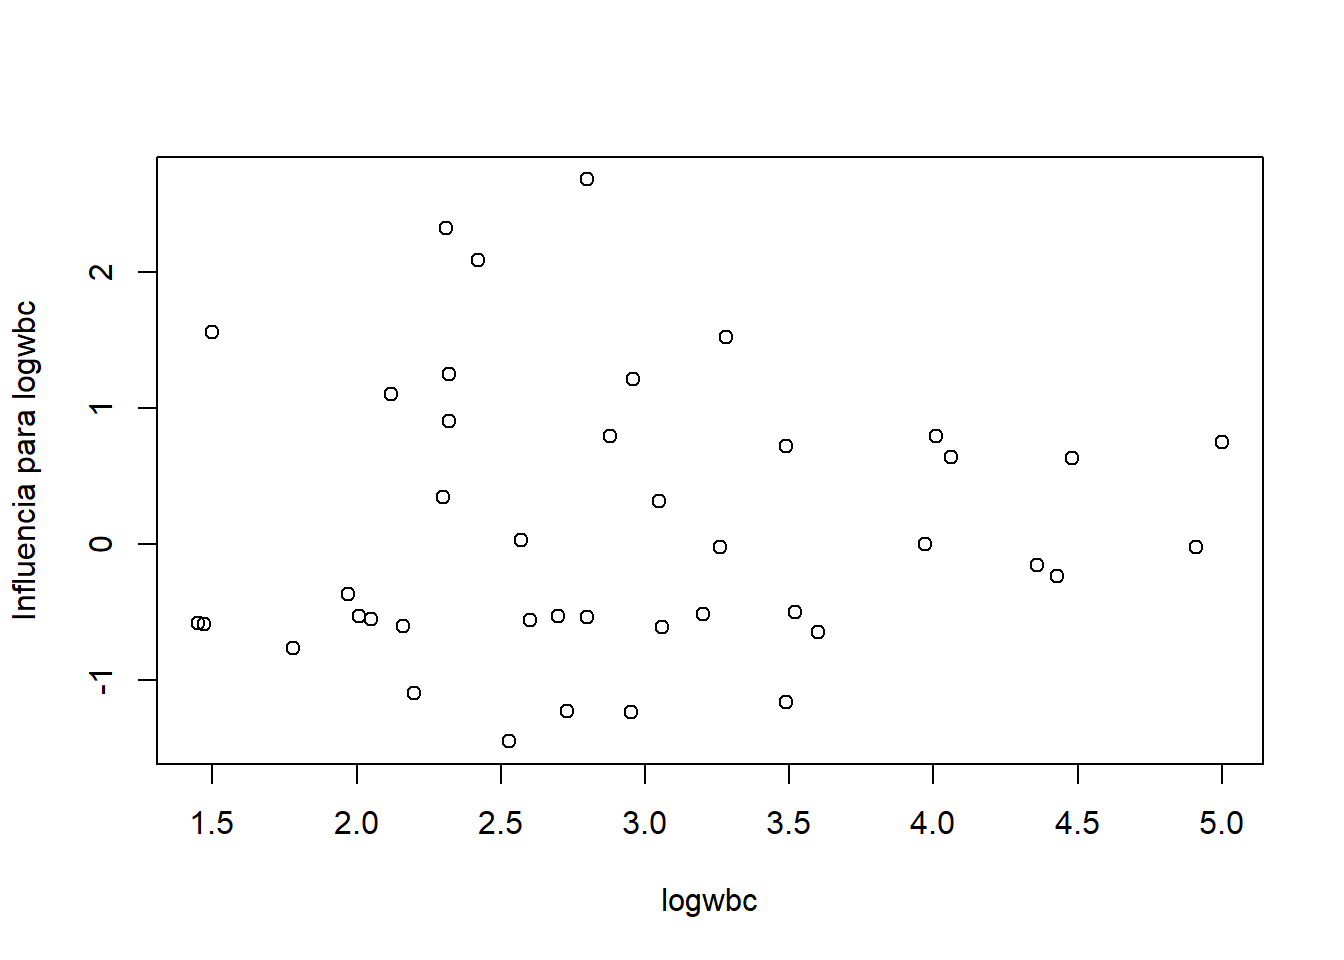
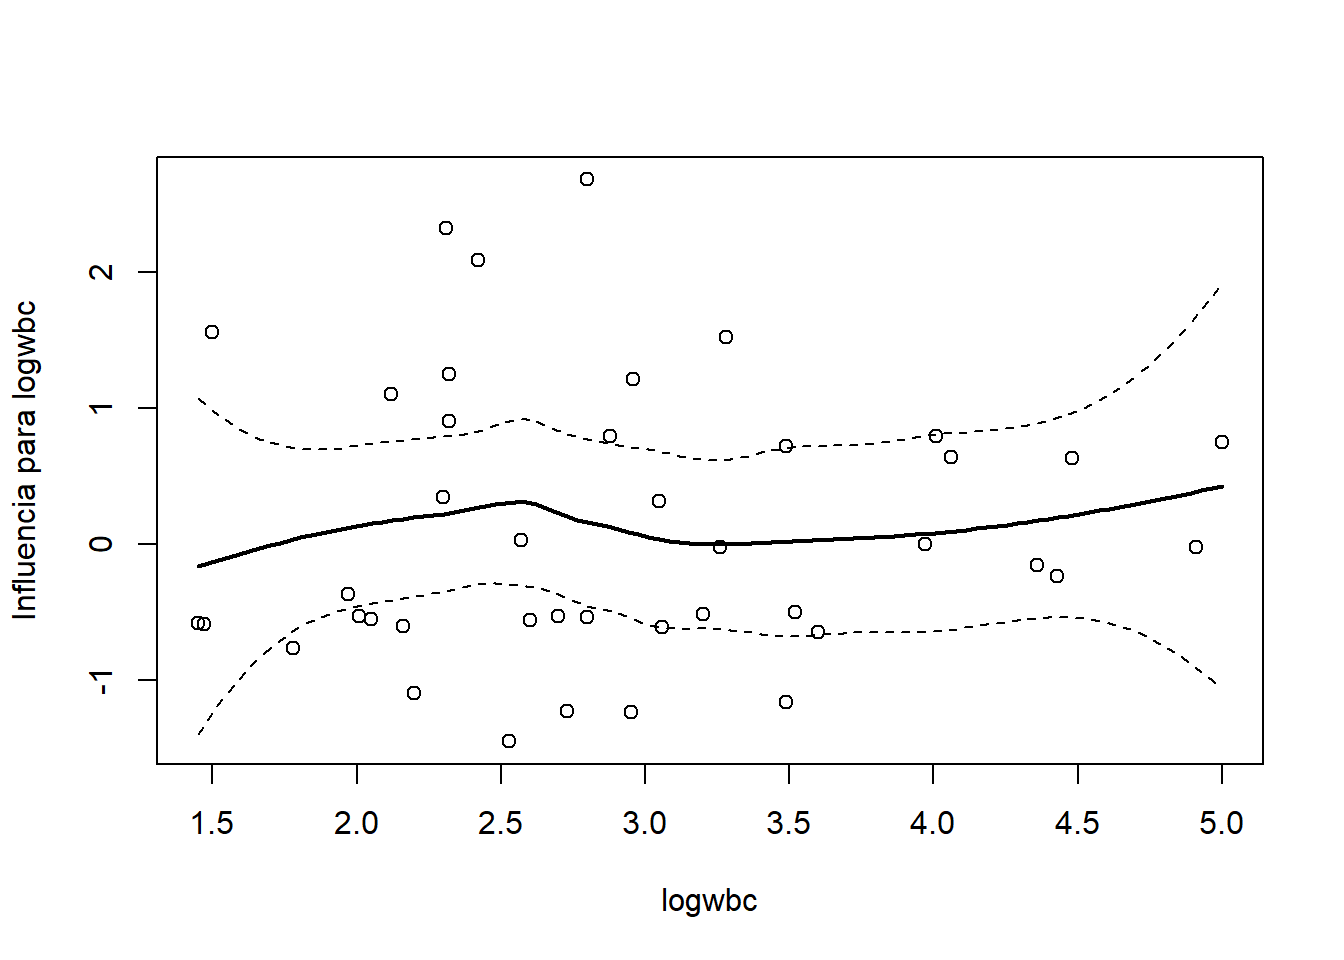
at20

diff --git a/_site/semanas/Aula07.html b/_site/semanas/Aula07.html
@@ -488,7 +488,8 @@ logwbc     2.73</code></pre>
 <h2 class="anchored" data-anchor-id="avaliando-o-ajuste-4">Avaliando o ajuste 4</h2>
 <div class="cell">
 <div class="sourceCode cell-code" id="cb20"><pre class="sourceCode r code-with-copy"><code class="sourceCode r"><span id="cb20-1"><a href="#cb20-1" aria-hidden="true" tabindex="-1"></a>rr.final2 <span class="ot">&lt;-</span> <span class="fu">residuals</span>(leuc.cox2 , <span class="at">type=</span><span class="st">"deviance"</span>)</span>
-<span id="cb20-2"><a href="#cb20-2" aria-hidden="true" tabindex="-1"></a><span class="fu">plot</span>(dados<span class="sc">$</span>logwbc, rr.final2, <span class="at">xlab=</span><span class="st">"logwbc"</span>, <span class="at">ylab =</span> <span class="st">"Influencia para logwbc"</span>)</span></code><button title="Copy to Clipboard" class="code-copy-button"><i class="bi"></i></button></pre></div>
+<span id="cb20-2"><a href="#cb20-2" aria-hidden="true" tabindex="-1"></a><span class="fu">plot</span>(dados<span class="sc">$</span>logwbc, rr.final2, <span class="at">xlab=</span><span class="st">"logwbc"</span>, <span class="at">ylab =</span> <span class="st">"Influencia para logwbc"</span>)</span>
+<span id="cb20-3"><a href="#cb20-3" aria-hidden="true" tabindex="-1"></a><span class="fu">smoothSEcurve</span>(rr.final2, dados<span class="sc">$</span>logwbc)</span></code><button title="Copy to Clipboard" class="code-copy-button"><i class="bi"></i></button></pre></div>
 <div class="cell-output-display">
 <p><img src="Aula07_files/figure-html/unnamed-chunk-7-1.png" class="img-fluid" width="672"></p>
 </div>
